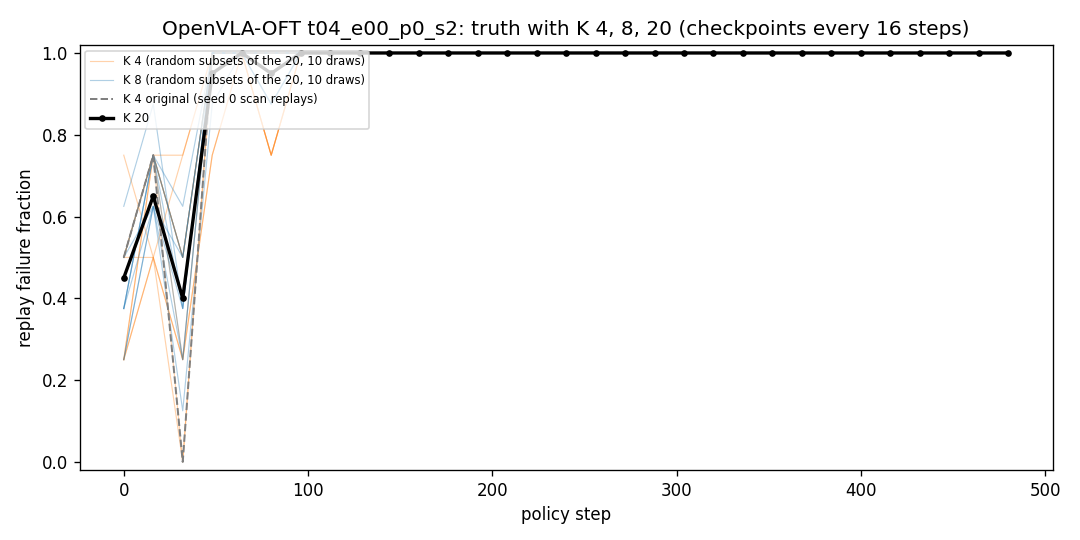
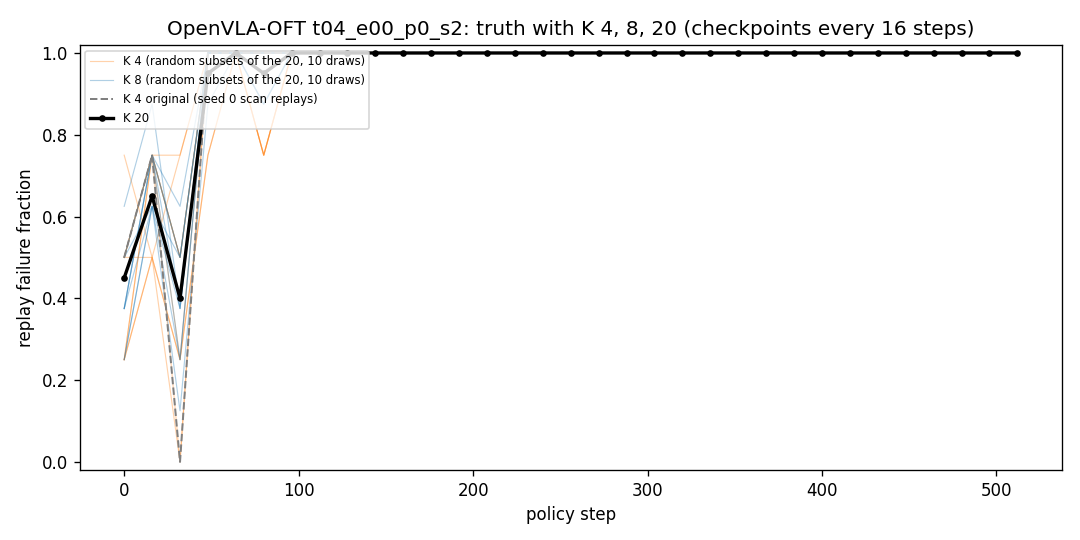
gt20: cost and pilot analysis (final)

diff --git a/results/gt20/pilot.md b/results/gt20/pilot.md
@@ -8,10 +8,10 @@ OpenVLA-OFT, checkpoints every 16 steps, K 20 (seed 0 scan replays and seed 1 re
 |---|---|---|---|---|---|---|
 | t00_e06_p0_s1 | 33 | 0.136 | 0.084 | 0.148 | 344 | 352 |
 | t01_e07_p0_s1 | 33 | 0.042 | 0.019 | 0.038 | 120 | 128 |
-| t04_e00_p0_s2 | 31 | 0.022 | 0.013 | 0.021 | 40 | 48 |
-| all | 97 | 0.068 | 0.040 | 0.070 |  |  |
+| t04_e00_p0_s2 | 33 | 0.020 | 0.013 | 0.020 | 40 | 48 |
+| all | 99 | 0.066 | 0.039 | 0.069 |  |  |
 
-Runs with checkpoints still missing or not started: none; checkpoints done per run: t00_e06_p0_s1 33, t01_e07_p0_s1 33, t04_e00_p0_s2 31.
+Runs with checkpoints still missing or not started: none; checkpoints done per run: t00_e06_p0_s1 33, t01_e07_p0_s1 33, t04_e00_p0_s2 33.
 
 ## Seed 0 model predictions (data/regression_v2, unseen task) vs the K 4 and K 20 truth, pilot checkpoints
 
@@ -19,14 +19,14 @@ MSE over the checkpoints every 16 steps of the pilot runs (pooled; per run in br
 
 | model | MSE vs K 4 truth | MSE vs K 20 truth |
 |---|---|---|
-| gru_phys_frac | 0.3113 (0.201, 0.073, 0.683) | 0.2983 (0.192, 0.050, 0.676) |
-| safe_lin | 0.1452 (0.203, 0.195, 0.030) | 0.1174 (0.158, 0.160, 0.028) |
-| safe_mlp | 0.1215 (0.190, 0.044, 0.132) | 0.1057 (0.162, 0.030, 0.127) |
-| safe_lstm | 0.2329 (0.491, 0.150, 0.045) | 0.2212 (0.493, 0.121, 0.038) |
-| gru_physvla_frac | 0.2397 (0.278, 0.119, 0.328) | 0.2208 (0.256, 0.092, 0.321) |
-| const | 0.6005 (0.447, 0.594, 0.771) | 0.6016 (0.447, 0.605, 0.763) |
-| progress_iso | 0.3958 (0.433, 0.236, 0.526) | 0.3909 (0.435, 0.227, 0.519) |
-| timer_iso | 0.3511 (0.230, 0.302, 0.533) | 0.3478 (0.212, 0.317, 0.525) |
-| noise floor | 0.0208 | 0.0041 |
+| gru_phys_frac | 0.3100 (0.201, 0.073, 0.656) | 0.2973 (0.192, 0.050, 0.650) |
+| safe_lin | 0.1423 (0.203, 0.195, 0.029) | 0.1150 (0.158, 0.160, 0.027) |
+| safe_mlp | 0.1191 (0.190, 0.044, 0.124) | 0.1035 (0.162, 0.030, 0.119) |
+| safe_lstm | 0.2283 (0.491, 0.150, 0.043) | 0.2168 (0.493, 0.121, 0.036) |
+| gru_physvla_frac | 0.2398 (0.278, 0.119, 0.323) | 0.2213 (0.256, 0.092, 0.317) |
+| const | 0.6052 (0.447, 0.594, 0.774) | 0.6063 (0.447, 0.605, 0.767) |
+| progress_iso | 0.3886 (0.433, 0.236, 0.497) | 0.3838 (0.435, 0.227, 0.490) |
+| timer_iso | 0.3440 (0.230, 0.302, 0.501) | 0.3408 (0.212, 0.317, 0.493) |
+| noise floor | 0.0204 | 0.0040 |
 
 Slide redraw: plots/slide_t00_e06_p0_s1_K20.png. Per run truth curves: plots/truth_K_<run>.png.

diff --git a/results/gt20/cost.md b/results/gt20/cost.md
@@ -1,14 +1,14 @@
 # Cost plan for a 20-replay ground truth (plan: results/plan_nov22_gt20.md, Step 2)
 
-## Time per replay, OpenVLA-OFT pilot (96 checkpoints done, 1512 new replays, galhp L40S)
+## Time per replay, OpenVLA-OFT pilot (99 checkpoints done, 1560 new replays, galhp L40S)
 
 | replays | n | mean seconds | median | mean steps |
 |---|---|---|---|---|
 | successful | 266 | 9.2 | 8.3 | 260 |
-| failed | 1246 | 14.4 | 14.1 | 444 |
-| all | 1512 | 13.5 | 13.0 | 412 |
+| failed | 1294 | 14.2 | 13.9 | 436 |
+| all | 1560 | 13.4 | 12.7 | 406 |
 
-Fit seconds = 1.66 + 0.0288 x replay steps (a failed replay from step c runs 720 - c steps).
+Fit seconds = 1.65 + 0.0288 x replay steps (a failed replay from step c runs 720 - c steps).
 
 ## Time per replay from the existing K 4 scans (minutes per scan; fit seconds = a + b x steps)
 
@@ -30,13 +30,13 @@ OFT projections below use the pilot fit; Pi0.5 uses its scan fit (no Pi0.5 pilot
 | OpenVLA-OFT | 136 | 16 | K 20 | 70860 | 268 | 2.2 |
 | OpenVLA-OFT | 136 | 16 | adaptive (K 20 where 0.25 <= f4 <= 0.75 or at a change) | 18708 | 71 | 0.6 |
 | OpenVLA-OFT | 136 | 32 | K 8 | 9124 | 34 | 0.3 |
-| OpenVLA-OFT | 136 | 32 | K 20 | 36620 | 138 | 1.2 |
+| OpenVLA-OFT | 136 | 32 | K 20 | 36620 | 138 | 1.1 |
 | OpenVLA-OFT | 136 | 32 | adaptive (K 20 where 0.25 <= f4 <= 0.75 or at a change) | 10248 | 39 | 0.3 |
 | OpenVLA-OFT | 50 | 8 | K 8 | 12736 | 48 | 0.4 |
 | OpenVLA-OFT | 50 | 8 | K 20 | 51208 | 192 | 1.6 |
 | OpenVLA-OFT | 50 | 8 | adaptive (K 20 where 0.25 <= f4 <= 0.75 or at a change) | 16104 | 60 | 0.5 |
 | OpenVLA-OFT | 50 | 16 | K 8 | 6468 | 24 | 0.2 |
-| OpenVLA-OFT | 50 | 16 | K 20 | 26004 | 98 | 0.8 |
+| OpenVLA-OFT | 50 | 16 | K 20 | 26004 | 97 | 0.8 |
 | OpenVLA-OFT | 50 | 16 | adaptive (K 20 where 0.25 <= f4 <= 0.75 or at a change) | 8244 | 31 | 0.3 |
 | OpenVLA-OFT | 50 | 32 | K 8 | 3344 | 12 | 0.1 |
 | OpenVLA-OFT | 50 | 32 | K 20 | 13432 | 50 | 0.4 |

diff --git a/results/LOG.md b/results/LOG.md
@@ -207,3 +207,4 @@ Every number shown in a meeting must trace to a line here.
 | 2026-11-22 | gt20 amendment (plan_nov22_gt20.md, pushed 236b2b7 before submit): pilot timing 1.01x (failed 19.3 vs 19.1 s) and 1.04x (successful 9.2 vs 8.8 s) the scan estimate. `AFTER=43506025:43506739 bash slurm/gt20_full_submit.sh`: OFT workers 43506765 (galhp L40S, %5, 67_gt20_worker.py, 136 runs every 8, K 20, seed 20, noise 0.05, +200) -> data/gt20/oft; Pi0.5 workers 43506766 (after OFT, 37 runs, noise 0 as its scans) -> data/gt20/pi05; regression on the OFT 20-replay truth 43506767 to 43506792 (60_regression.py --target gt20, every model, seeds 0 to 4) -> data/gt20/regression; report 43506793 -> results/gt20/main.md | 236b2b7 | submitted | GPU + CPU |
 | 2026-11-22 | gt20 L40S control 43506739 (galhp alh2, 66_gpu_check.py, same 40 replays as the A30 check): replay gate PASS, same outcome as the earlier L40S runs in 39 of 40 (October seed 0 replays 8 of 8, pilot seed 20 31 of 32), 22.5 s per failed replay; A30 28 of 40. L40S only for the full run, as submitted | ca13ff0 | results/gt20/gpu_check/NVIDIA_L40S.json | GPU |
 | 2026-11-22 | Nov 22 Steps 2-3 (interim): 65_gt20_cost.py, 64_gt20_analysis.py on data/gt20_pilot (97 of 99 checkpoints) | 8843387 | results/gt20/cost.md, pilot.md, plots/ | job 43506382 (auto) |
+| 2026-11-22 | Nov 22 Steps 2-3 (final): 65_gt20_cost.py, 64_gt20_analysis.py on data/gt20_pilot (99 of 99 checkpoints) | b3b2520 | results/gt20/cost.md, pilot.md, plots/ | job 43506383 (auto) |
